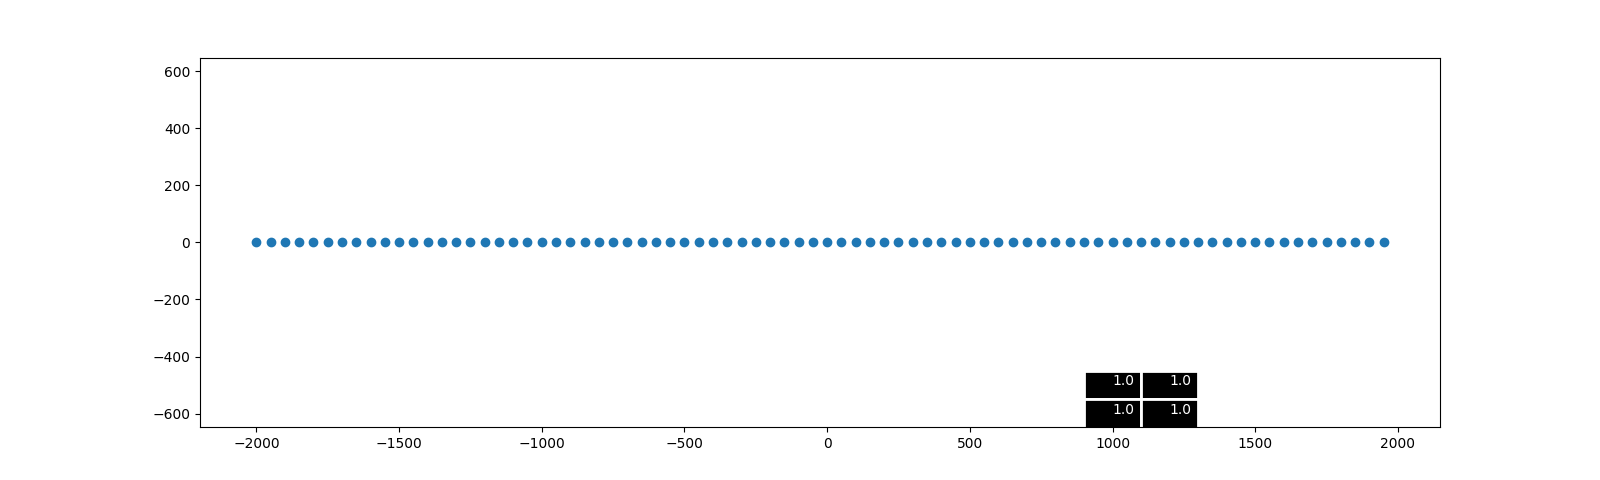
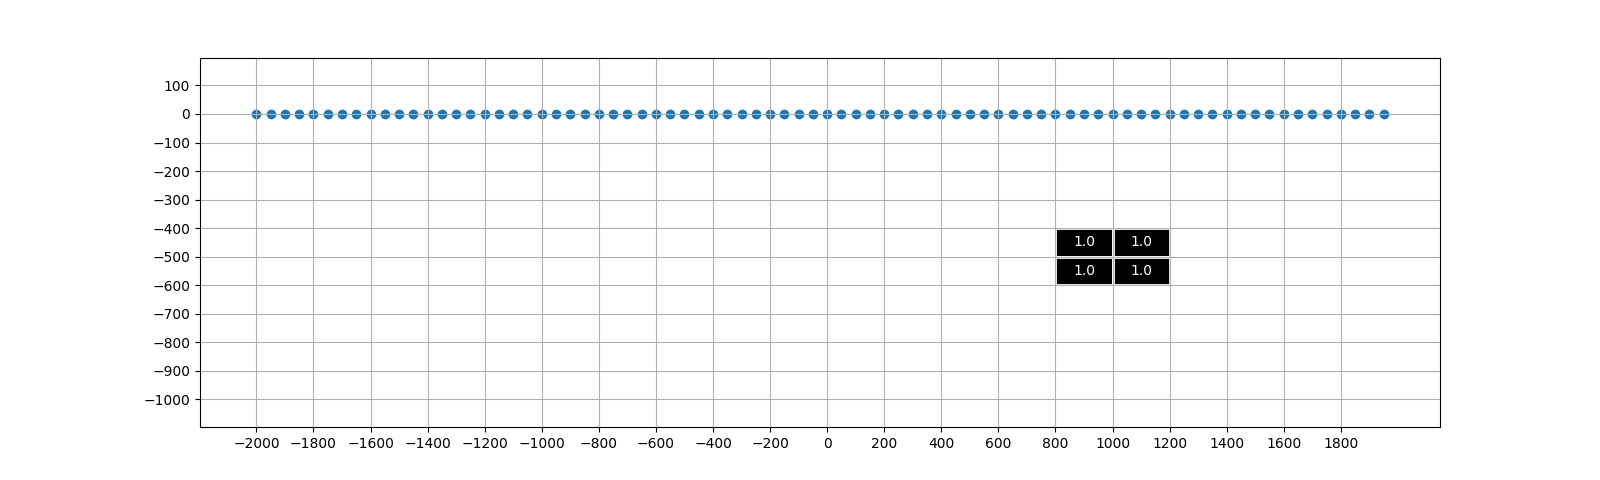
bx, by, bz calculation done

diff --git a/extras.py b/extras.py
@@ -1,4 +1,5 @@
 import math
+import numpy
 from matplotlib import pyplot as plt
 from matplotlib.patches import Rectangle
 
@@ -25,23 +26,32 @@ class Cell(Point):
     height = 100
     I = 1
 
-    def __init__(self, x: float, y: float, z: float, px: float):
+    def __init__(self, x: float, y: float, z: float, px: float = 0, py: float = 0, pz: float = 0):
         super().__init__(x, y, z)
         self.px = px
+        self.py = py
+        self.pz = pz
 
     def __repr__(self):
-        return f"Cell({self.x}, {self.y}, {self.z}) with px={self.px}"
+        return f"Cell({self.x}, {self.y}, {self.z}) with px={self.px}, py={self.py}, pz={self.pz}"
 
     def volume(self):
         return self.length * self.width * self.height
+
+
+class Receiver(Point):
+    def __init__(self, x: float, y: float, z: float, bx: float, by: float, bz: float):
+        super().__init__(x, y, z)
+        self.bx = bx
+        self.by = by
+        self.bz = bz
+
 
 def get_receivers(path: str) -> list:
     receivers = []
     for f in open(path):
         buf = [float(attr) for attr in f.split(' ')]
-        receivers.append(Point(buf[0],
-                               buf[1],
-                               buf[2]))
+        receivers.append(Receiver(*buf))
     return receivers
 
 
@@ -49,10 +59,11 @@ def get_mesh(path: str) -> list:
     cells = []
     for f in open(path):
         buf = [float(attr) for attr in f.split(' ')]
-        cells.append(Cell(buf[0],
-                          buf[1],
-                          buf[2],
-                          buf[3]))
+        cells.append(Cell(*buf))
+        # cells.append(Cell(buf[0],
+        #                   buf[1],
+        #                   buf[2],
+        #                   buf[3]))
     return cells
 
 
@@ -68,16 +79,29 @@ def draw_mesh(path: str, mesh: list, receivers):
 
     ax.scatter(x, z)
     ax.axis('equal')
+    # ax.grid(True)
+    ax.set_xticks(numpy.arange(-2000, 2000, 200))
+    ax.set_yticks(numpy.arange(-1000, 200, 100))
+
+    min_px = min(mesh, key=lambda x: x.px).px
+    max_px = max(mesh, key=lambda x: x.px).px
+
+    # TODO: исправить костыль
+    if min_px > 0:
+        min_px = 0
+
+    print(f"Min: {min_px}, max: {max_px}")
     for cell in mesh:
-        print(cell.x, cell.z, cell.width)
+        # print(cell.x, cell.z, cell.width)
+        print(f"px = {cell.px}")
         rect = Rectangle((cell.x - cell.width / 2, cell.z - cell.height / 2),
                          cell.width,
                          cell.height,
                          linewidth=2,
                          # edgecolor='none',
                          edgecolor='w',
-                         facecolor=f'{1 - cell.px}')
+                         facecolor=f'{1 - (cell.px - min_px)/(max_px - min_px)}')
         ax.add_patch(rect)
-        ax.annotate(cell.px, (cell.x, cell.z), color=f'{cell.px}')
-
+        ax.annotate(round(cell.px, 1), (cell.x, cell.z), ha='center', va='center', color=f'{(cell.px - min_px)/(max_px - min_px)}')
+    plt.grid()
     plt.savefig(path)

diff --git a/inverse.py b/inverse.py
@@ -1,54 +1,59 @@
+import math
+
 import numpy as np
 
-from extras import Cell, Point, get_mesh, get_receivers
-
-class Receiver(Point):
-    def __init__(self, x: float, y: float, z: float, bx: float):
-        super().__init__(x, y, z)
-        self.bx = bx
-
-
-def get_receivers(path: str) -> list:
-    receivers = []
-    for f in open(path):
-        buf = [float(attr) for attr in f.split(' ')]
-        receivers.append(Receiver(buf[0],
-                                  buf[1],
-                                  buf[2],
-                                  buf[3]))
-    return receivers
+from extras import get_mesh, get_receivers, draw_mesh
 
 receivers_results_path = 'receivers_results.dat'
-mesh_path = 'mesh.dat'
+mesh_path = 'mesh_16.dat'
 
 mesh = get_mesh(mesh_path)
 receivers = get_receivers(receivers_results_path)
-# L = np.zeros(shape=(len(receivers) * 3, len(mesh) * 3))
-L = np.zeros(shape=(len(receivers), len(mesh) * 3))
-# S = np.zeros(len(receivers) * 3)
+L = np.zeros(shape=(len(receivers) * 3, len(mesh) * 3))
+# L = np.zeros(shape=(len(receivers), len(mesh) * 3))
 for i, r in enumerate(receivers):
     for j, c in enumerate(mesh):
-        L[i][j*3] += 3 * (r.x - c.x) ** 2 / (r.distance(c) ** 2) - 1
-        L[i][j*3+1] += 3 * (r.x - c.x) * (r.y - c.y) / (r.distance(c) ** 2)
-        L[i][j*3+2] += 3 * (r.x - c.x) * (r.z - c.z) / (r.distance(c) ** 2)
-    # S[i*3] = r.bx
-S = [r.bx for r in receivers]
-print(f"L = {L}")
-print(f"S = {S}")
+        dx = r.x - c.x
+        dy = r.y - c.y
+        dz = r.z - c.z
+        dist = r.distance(c)
+        mult = c.volume() / (4 * math.pi * dist ** 3)
+        L[i*3][j*3] += mult * (3 * dx * dx / dist ** 2 - 1)
+        L[i*3][j*3+1] += mult * 3 * dx * dy / dist ** 2
+        L[i*3][j*3+2] += mult * 3 * dx * dz / dist ** 2
+
+        L[i*3+1][j*3] += mult * 3 * dx * dy / dist ** 2
+        L[i*3+1][j*3+1] += mult * (3 * dy * dy / dist ** 2 - 1)
+        L[i*3+1][j*3+2] += mult * 3 * dy * dz / dist ** 2
+
+        L[i*3+2][j*3] += mult * 3 * dx * dz / dist ** 2
+        L[i*3+2][j*3+1] += mult * 3 * dy * dz / dist ** 2
+        L[i*3+2][j*3+2] += mult * 3 * (dz * dz / dist ** 2 - 1)
+
+S = [b for r in receivers for b in (r.bx, r.by, r.bz)]
+# print(f"L = {L}")
+# print(f"S = {S}")
 
 # C = np.zeros(shape=(len(receivers), len(mesh) * 3))
 
 
 A = np.matmul(L.transpose(), L)
 b = np.matmul(L.transpose(), S)
-print(f"A = {A}")
-print(f"b = {b}")
+# print(f"A = {A}")
+# print(f"b = {b}")
 
-alfa = 10**-1
-alfa = 1
+# alfa = 10**-2
+alfa = 0
 ones = np.eye(len(A))
-# print(np.dot(alfa, ones))
 regularizedA = A + np.dot(alfa, ones)
-print(np.linalg.det(regularizedA))
 p = np.linalg.solve(regularizedA, b)
 print(f"p={p}")
+
+for i, c in enumerate(mesh):
+    c.px = p[i*3]
+    c.py = p[i*3+1]
+    c.pz = p[i*3+2]
+    # print(c, f"px={p[i*3]}, py={p[i*3+1]}, pz={p[i*3+2]}")
+    print(c)
+
+draw_mesh('result_mesh.png', mesh, receivers)

diff --git a/direct.py b/direct.py
@@ -3,6 +3,7 @@ from matplotlib import pyplot as plt
 
 from extras import Cell, Point, get_mesh, get_receivers, draw_mesh
 
+
 def get_receivers_result(path: str) -> list:
     receivers = []
     for f in open(path):
@@ -12,13 +13,14 @@ def get_receivers_result(path: str) -> list:
                                buf[2]))
     return receivers
 
+
 cells_path = 'cells.dat'
 receivers_path = 'receivers.dat'
 
 mesh = get_mesh(cells_path)
-print(mesh)
+# print(mesh)
 
-print(mesh[0].distance(mesh[1]))
+# print(mesh[0].distance(mesh[1]))
 
 # TODO: добавить компоненты py и pz
 x = []
@@ -26,15 +28,34 @@ y = []
 receivers_results_path = 'receivers_results.dat'
 f = open(receivers_results_path, mode="w")
 for rcv_x in range(-2000, 2000, 50):
-# for rcv_x in range(-2000, 3000, 1000):
+    # for rcv_x in range(-2000, 3000, 1000):
     receiver = Point(rcv_x, 0, 0)
 
-    Bx = 0
+    Bx, By, Bz = 0, 0, 0
+    # By = 0
+    # B
     for cell in mesh:
-        Bx += cell.volume() * cell.I / (4 * math.pi * receiver.distance(cell) ** 3) * \
-              (cell.px * (3 * (receiver.x - cell.x) ** 2) / receiver.distance(cell) ** 2 - 1)
+        dx = receiver.x - cell.x
+        dy = receiver.y - cell.y
+        dz = receiver.z - cell.z
+        distance = receiver.distance(cell)
+        Bx += cell.volume() * cell.I / (4 * math.pi * distance ** 3) * (
+            cell.px * (3 * dx * dx / distance ** 2 - 1) +
+            cell.py * (3 * dx * dy / distance ** 2) +
+            cell.pz * (3 * dx * dz / distance ** 2)
+        )
+        By += cell.volume() * cell.I / (4 * math.pi * distance ** 3) * (
+            cell.px * (3 * dx * dy / distance ** 2) +
+            cell.py * (3 * dy * dy / distance ** 2 - 1) +
+            cell.pz * (3 * dy * dz / distance ** 2)
+        )
+        Bz += cell.volume() * cell.I / (4 * math.pi * distance ** 3) * (
+            cell.px * (3 * dx * dz / distance ** 2) +
+            cell.py * (3 * dy * dz / distance ** 2) +
+            cell.pz * (3 * dz * dz / distance ** 2 - 1)
+        )
         # print(f"rcv_x = {rcv_x}, Bx = {Bx}")
-    f.write(f"{receiver.x} {receiver.y} {receiver.z} {Bx}\n")
+    f.write(f"{receiver.x} {receiver.y} {receiver.z} {Bx} {By} {Bz}\n")
     x.append(rcv_x)
     y.append(Bx)
 f.close()
